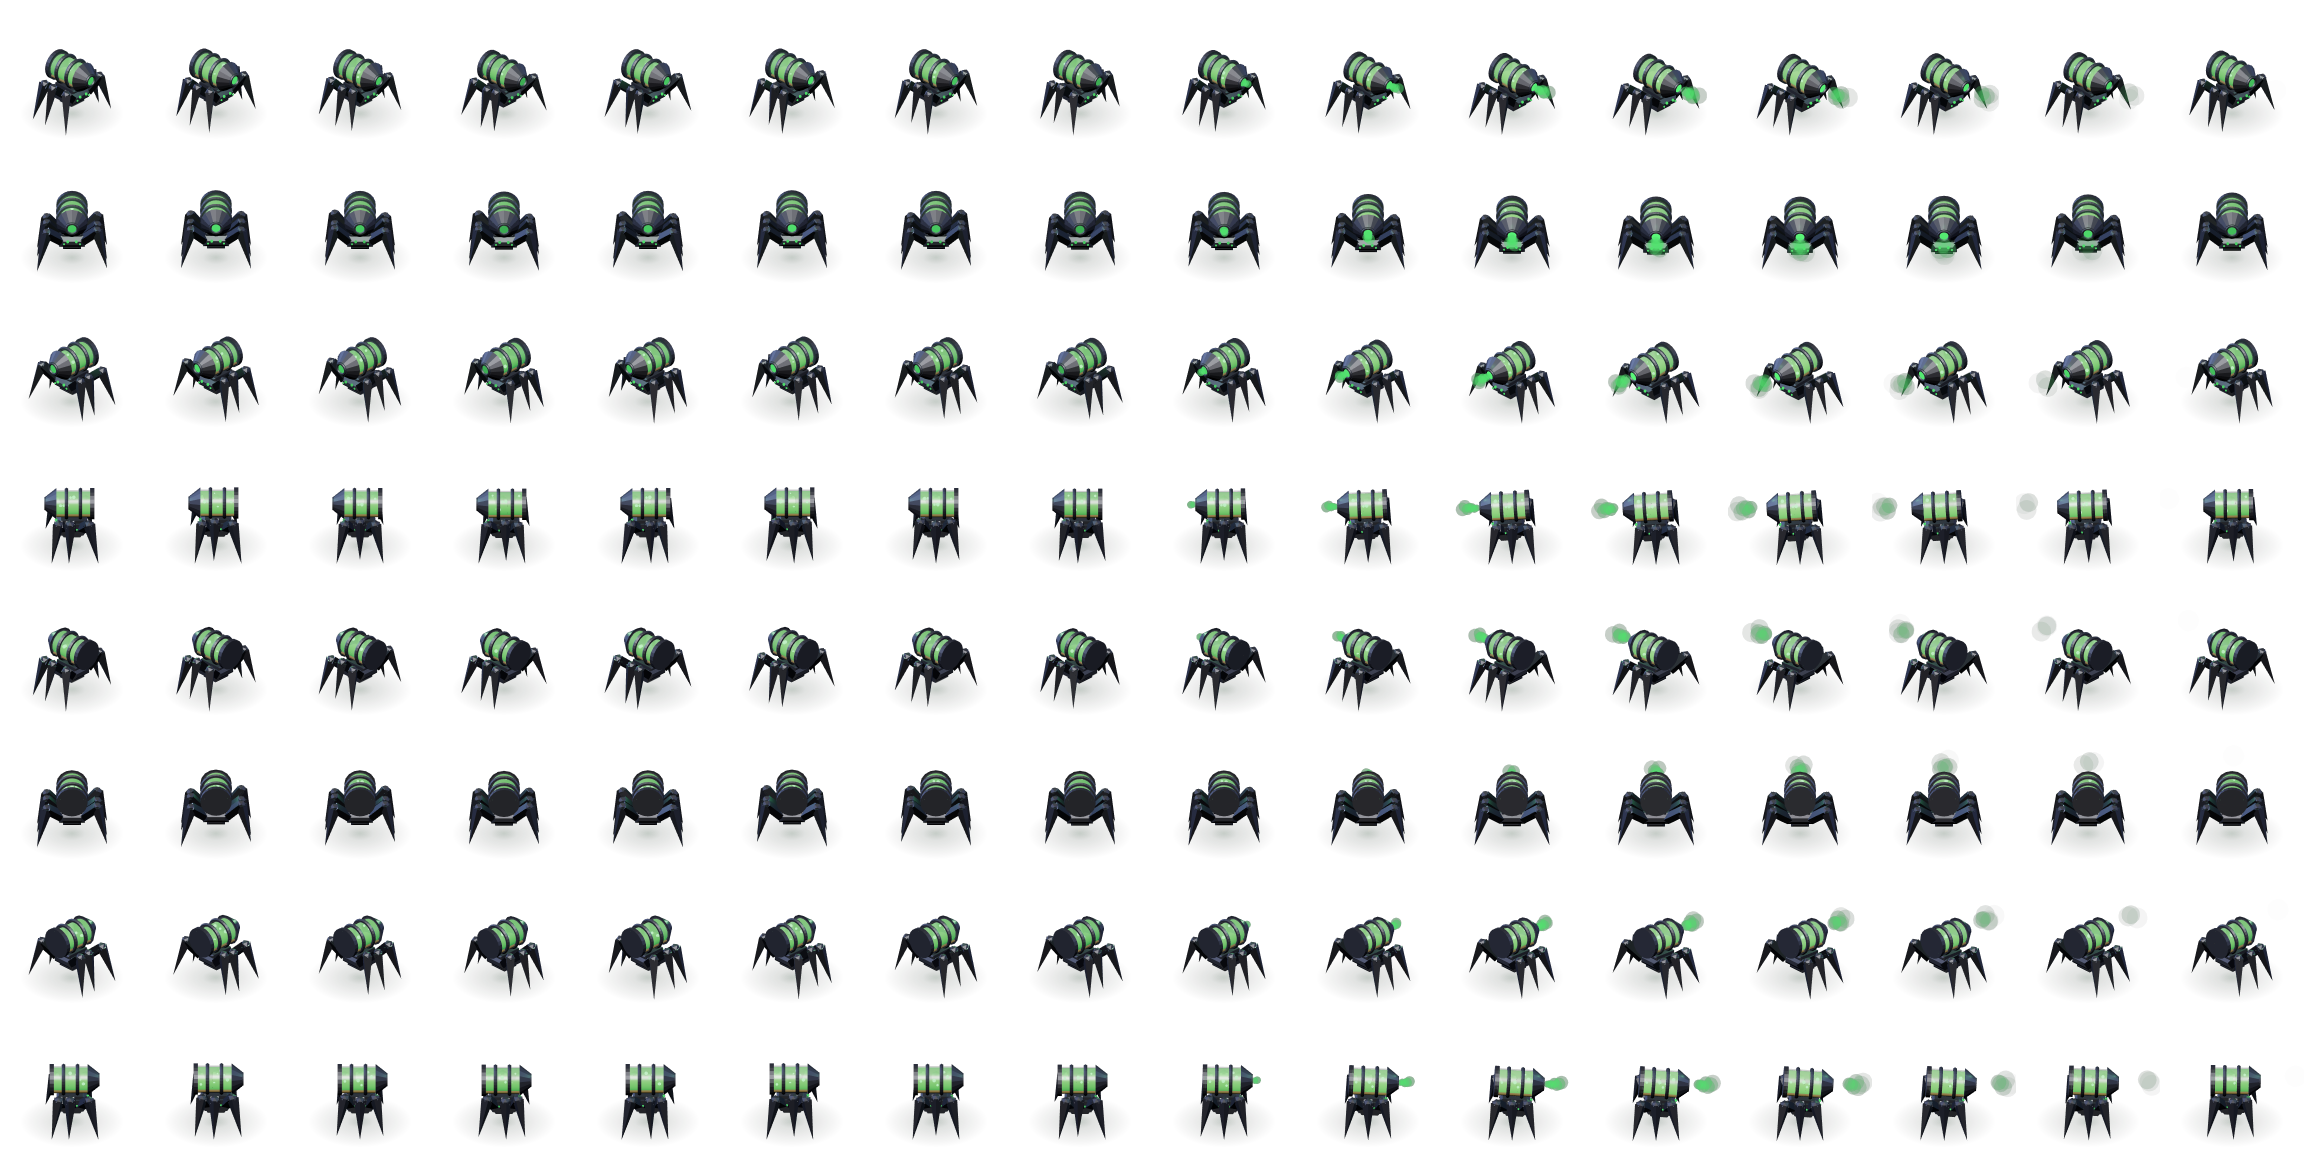
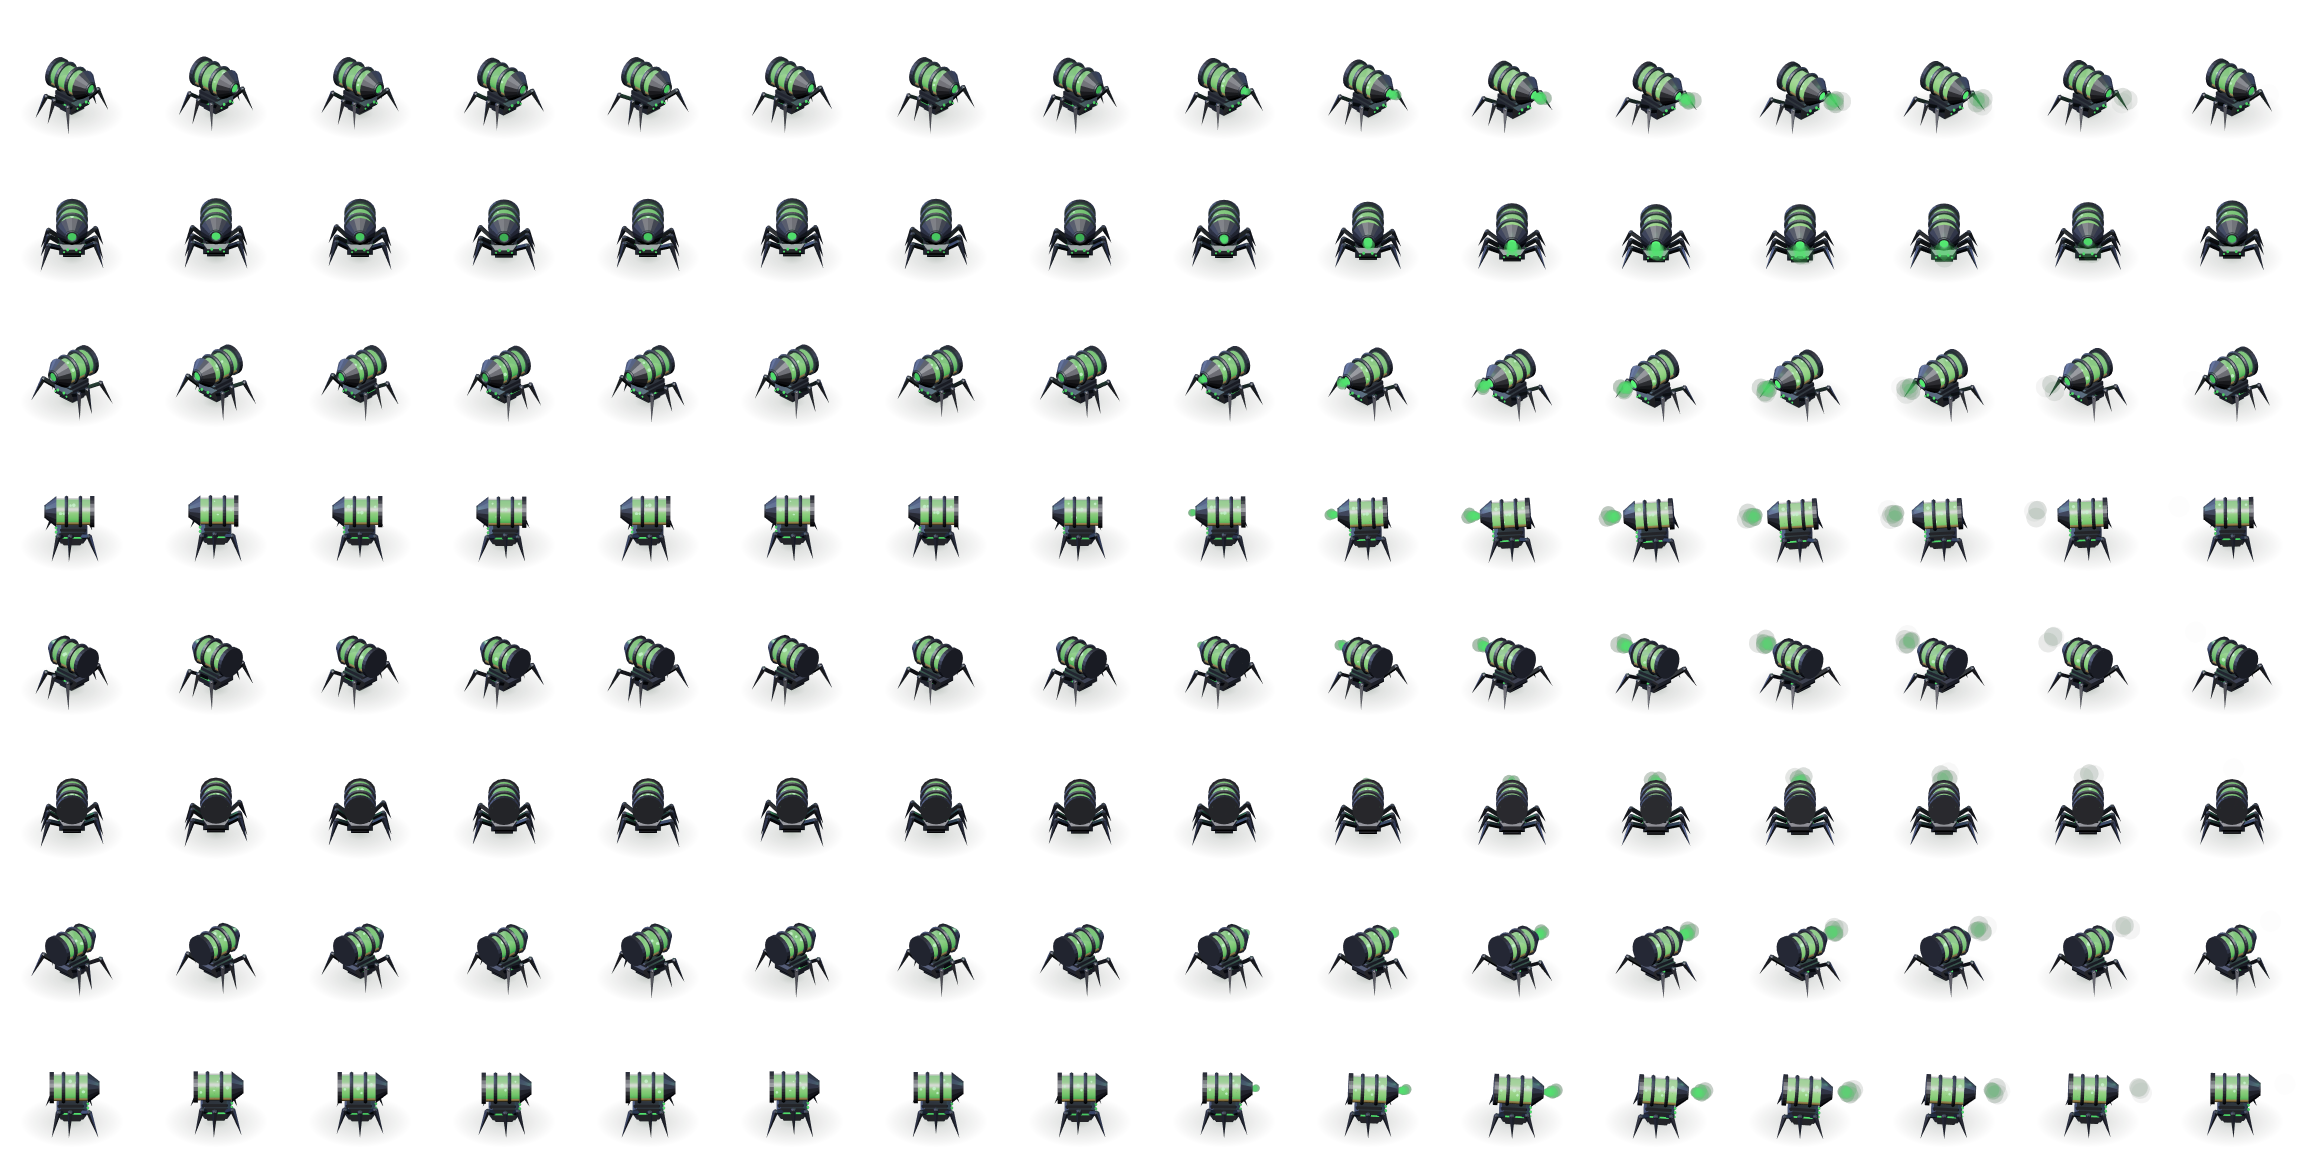
The Blight Spider rides low on fine legs now (No. 873, approved)
ASKED (reviewing it): "Smaller, thinner, finer legs, and just, I don't
know, make it lower to the ground, maybe", then "Yes push".

- img/evo/blightspider is baked from No. 873: the tank of toxin on a black
  chassis riding low on six fine spider legs; its toxin puff stops
  inside its cell.
- The first design (No. 870) stays in the design file, baked by bake.js as
  blightspider_old for comparison.
- Tests: evolution, landing page, boot, moves, INFO, index, specimen.

Build 2026-10-28f.

Claude-Session: https://claude.ai/code/session_0115DZYYhipQqSk6LHvQcEfz

diff --git a/game.html b/game.html
@@ -1573,12 +1573,12 @@ function _showError(msg) {
 // Script files that failed to download. A missing file raises no error of its
 // own — only the "Can't find variable" from whatever needed it — so the load
 // failure is caught here, on its way down (capture phase).
-// THE BUILD. Every script URL below carries ?v=2026-10-28e, so a new deploy
+// THE BUILD. Every script URL below carries ?v=2026-10-28f, so a new deploy
 // fetches a matching set: REPORTED, an iPad ran the new js/indexart.js against
 // an old cached js/config.js ("Attempted to assign to readonly property").
 // Change this, the ?v= on every script tag and BUILD_VERSION in js/config.js
 // together (tests/boot.js checks they agree).
-window.__PAGE_BUILD = "2026-10-28e";
+window.__PAGE_BUILD = "2026-10-28f";
 window.__bootFailed = [];
 window.addEventListener("error", function (e) {
     var t = e && e.target;
@@ -1614,71 +1614,71 @@ if (!CanvasRenderingContext2D.prototype.roundRect) {
 </script>
 
 <!-- Game scripts — load order matters (globals first, logic last) -->
-<script src="js/config.js?v=2026-10-28e"></script>
-<script src="js/icons.js?v=2026-10-28e"></script>
-<script src="js/uikit.js?v=2026-10-28e"></script>
-<script src="js/traits.js?v=2026-10-28e"></script>
-<script src="js/elements.js?v=2026-10-28e"></script>
-<script src="js/combat.js?v=2026-10-28e"></script>
-<script src="js/species.js?v=2026-10-28e"></script>
-<script src="js/levels.js?v=2026-10-28e"></script>
-<script src="js/status.js?v=2026-10-28e"></script>
-<script src="js/helpers.js?v=2026-10-28e"></script>
-<script src="js/predator.js?v=2026-10-28e"></script>
-<script src="js/abilities.js?v=2026-10-28e"></script>
-<script src="js/commands.js?v=2026-10-28e"></script>
-<script src="js/npc.js?v=2026-10-28e"></script>
-<script src="js/draw.js?v=2026-10-28e"></script>
-<script src="js/beetle3d.js?v=2026-10-28e"></script>
-<script src="js/bugs3d.js?v=2026-10-28e"></script>
-<script src="js/settings.js?v=2026-10-28e"></script>
-<script src="js/alarm.js?v=2026-10-28e"></script>
-<script src="js/drops.js?v=2026-10-28e"></script>
-<script src="js/clone.js?v=2026-10-28e"></script>
-<script src="js/bonds.js?v=2026-10-28e"></script>
-<script src="js/evolution.js?v=2026-10-28e"></script>
-<script src="js/hdsprites.js?v=2026-10-28e"></script>
-<script src="js/firebombs.js?v=2026-10-28e"></script>
-<script src="js/moves.js?v=2026-10-28e"></script>
-<script src="js/hudgems.js?v=2026-10-28e"></script>
-<script src="js/commandcenter.js?v=2026-10-28e"></script>
-<script src="js/unitinfo.js?v=2026-10-28e"></script>
-<script src="js/infodex.js?v=2026-10-28e"></script>
-<script src="js/classes.js?v=2026-10-28e"></script>
-<script src="js/playergear.js?v=2026-10-28e"></script>
-<script src="js/inventory.js?v=2026-10-28e"></script>
-<script src="js/weapons.js?v=2026-10-28e"></script>
-<script src="js/mutator.js?v=2026-10-28e"></script>
-<script src="js/specimen.js?v=2026-10-28e"></script>
-<script src="js/serum.js?v=2026-10-28e"></script>
-<script src="js/technomancer.js?v=2026-10-28e"></script>
-<script src="js/stations.js?v=2026-10-28e"></script>
-<script src="js/facilityportals.js?v=2026-10-28e"></script>
-<script src="js/tutorial.js?v=2026-10-28e"></script>
-<script src="js/facilitymap.js?v=2026-10-28e"></script>
-<script src="js/facilitygrow.js?v=2026-10-28e"></script>
-<script src="js/facility.js?v=2026-10-28e"></script>
-<script src="js/attract.js?v=2026-10-28e"></script>
-<script src="js/facilitysave.js?v=2026-10-28e"></script>
-<script src="js/facilityplay.js?v=2026-10-28e"></script>
-<script src="js/facilitydecor.js?v=2026-10-28e"></script>
-<script src="js/propatlas.js?v=2026-10-28e"></script>
-<script src="js/propsprites.js?v=2026-10-28e"></script>
-<script src="js/facilitystyle.js?v=2026-10-28e"></script>
-<script src="js/facilitystyleall.js?v=2026-10-28e"></script>
-<script src="js/facilitynet.js?v=2026-10-28e"></script>
-<script src="js/facilityspawn.js?v=2026-10-28e"></script>
-<script src="js/followerspots.js?v=2026-10-28e"></script>
-<script src="js/party.js?v=2026-10-28e"></script>
-<script src="js/squadfly.js?v=2026-10-28e"></script>
-<script src="js/facilitytutorial.js?v=2026-10-28e"></script>
-<script src="js/gunfire.js?v=2026-10-28e"></script>
-<script src="js/targeting.js?v=2026-10-28e"></script>
-<script src="js/toolbox.js?v=2026-10-28e"></script>
-<script src="js/mixtool.js?v=2026-10-28e"></script>
-<script src="js/radialmenu.js?v=2026-10-28e"></script>
-<script src="js/input.js?v=2026-10-28e"></script>
-<script src="js/game.js?v=2026-10-28e"></script>
+<script src="js/config.js?v=2026-10-28f"></script>
+<script src="js/icons.js?v=2026-10-28f"></script>
+<script src="js/uikit.js?v=2026-10-28f"></script>
+<script src="js/traits.js?v=2026-10-28f"></script>
+<script src="js/elements.js?v=2026-10-28f"></script>
+<script src="js/combat.js?v=2026-10-28f"></script>
+<script src="js/species.js?v=2026-10-28f"></script>
+<script src="js/levels.js?v=2026-10-28f"></script>
+<script src="js/status.js?v=2026-10-28f"></script>
+<script src="js/helpers.js?v=2026-10-28f"></script>
+<script src="js/predator.js?v=2026-10-28f"></script>
+<script src="js/abilities.js?v=2026-10-28f"></script>
+<script src="js/commands.js?v=2026-10-28f"></script>
+<script src="js/npc.js?v=2026-10-28f"></script>
+<script src="js/draw.js?v=2026-10-28f"></script>
+<script src="js/beetle3d.js?v=2026-10-28f"></script>
+<script src="js/bugs3d.js?v=2026-10-28f"></script>
+<script src="js/settings.js?v=2026-10-28f"></script>
+<script src="js/alarm.js?v=2026-10-28f"></script>
+<script src="js/drops.js?v=2026-10-28f"></script>
+<script src="js/clone.js?v=2026-10-28f"></script>
+<script src="js/bonds.js?v=2026-10-28f"></script>
+<script src="js/evolution.js?v=2026-10-28f"></script>
+<script src="js/hdsprites.js?v=2026-10-28f"></script>
+<script src="js/firebombs.js?v=2026-10-28f"></script>
+<script src="js/moves.js?v=2026-10-28f"></script>
+<script src="js/hudgems.js?v=2026-10-28f"></script>
+<script src="js/commandcenter.js?v=2026-10-28f"></script>
+<script src="js/unitinfo.js?v=2026-10-28f"></script>
+<script src="js/infodex.js?v=2026-10-28f"></script>
+<script src="js/classes.js?v=2026-10-28f"></script>
+<script src="js/playergear.js?v=2026-10-28f"></script>
+<script src="js/inventory.js?v=2026-10-28f"></script>
+<script src="js/weapons.js?v=2026-10-28f"></script>
+<script src="js/mutator.js?v=2026-10-28f"></script>
+<script src="js/specimen.js?v=2026-10-28f"></script>
+<script src="js/serum.js?v=2026-10-28f"></script>
+<script src="js/technomancer.js?v=2026-10-28f"></script>
+<script src="js/stations.js?v=2026-10-28f"></script>
+<script src="js/facilityportals.js?v=2026-10-28f"></script>
+<script src="js/tutorial.js?v=2026-10-28f"></script>
+<script src="js/facilitymap.js?v=2026-10-28f"></script>
+<script src="js/facilitygrow.js?v=2026-10-28f"></script>
+<script src="js/facility.js?v=2026-10-28f"></script>
+<script src="js/attract.js?v=2026-10-28f"></script>
+<script src="js/facilitysave.js?v=2026-10-28f"></script>
+<script src="js/facilityplay.js?v=2026-10-28f"></script>
+<script src="js/facilitydecor.js?v=2026-10-28f"></script>
+<script src="js/propatlas.js?v=2026-10-28f"></script>
+<script src="js/propsprites.js?v=2026-10-28f"></script>
+<script src="js/facilitystyle.js?v=2026-10-28f"></script>
+<script src="js/facilitystyleall.js?v=2026-10-28f"></script>
+<script src="js/facilitynet.js?v=2026-10-28f"></script>
+<script src="js/facilityspawn.js?v=2026-10-28f"></script>
+<script src="js/followerspots.js?v=2026-10-28f"></script>
+<script src="js/party.js?v=2026-10-28f"></script>
+<script src="js/squadfly.js?v=2026-10-28f"></script>
+<script src="js/facilitytutorial.js?v=2026-10-28f"></script>
+<script src="js/gunfire.js?v=2026-10-28f"></script>
+<script src="js/targeting.js?v=2026-10-28f"></script>
+<script src="js/toolbox.js?v=2026-10-28f"></script>
+<script src="js/mixtool.js?v=2026-10-28f"></script>
+<script src="js/radialmenu.js?v=2026-10-28f"></script>
+<script src="js/input.js?v=2026-10-28f"></script>
+<script src="js/game.js?v=2026-10-28f"></script>
 <script>
 // ── BOOT CHECK ────────────────────────────────────────────
 // Every file above must have arrived and run before init.js starts the game.
@@ -1733,7 +1733,7 @@ if (!CanvasRenderingContext2D.prototype.roundRect) {
     document.body.appendChild(d);
 })();
 </script>
-<script src="js/init.js?v=2026-10-28e"></script>
+<script src="js/init.js?v=2026-10-28f"></script>
 
 </body>
 </html>

diff --git a/js/evolution.js b/js/evolution.js
@@ -199,10 +199,11 @@ const EVOLUTIONS = {
     // red light and a cone drill for a nose glowing red in its groove, on a bear's thick armoured legs with clawed paws. The drill turns, so the sheet carries its own light.
     thermite:{ id: "thermite", name: "THERMITE BURROWER", element: "fire", role: "camper", sheet: "img/evo/thermite.png",
               cell: 144, anchor: [72, 114.2], core: [72, 74.8], noGlow: true, color: "#ff5a1f" },
-    // The TOXIC TECHNICIAN, design No. 870 (the user's card, "BLIGHT SPIDER · TOXIC DEPLOY"): a glass tank of bubbling toxin with black bands and a black front cap
-    // with a lens, on a faceted black six-legged chassis. The toxin bubbles and the legs trot, so the sheet carries its own light.
+    // The TOXIC TECHNICIAN, design No. 873 (the user's card, "BLIGHT SPIDER · TOXIC DEPLOY", then the review: "smaller, thinner, finer legs, and ... lower to the
+    // ground"): a glass tank of bubbling toxin with black bands and a black front cap with a lens, on a black chassis riding low on six fine spider legs. The toxin
+    // bubbles and the legs trot, so the sheet carries its own light.
     blightspider:{ id: "blightspider", name: "BLIGHT SPIDER", element: "toxic", role: "camper", sheet: "img/evo/blightspider.png",
-              cell: 144, anchor: [72, 114.2], core: [72, 71.6], noGlow: true, color: "#66ff66" },
+              cell: 144, anchor: [72, 114.2], core: [72, 79.6], noGlow: true, color: "#66ff66" },
     // The ELECTRIC TECHNICIAN, design No. 871 (the user's "ELECTRIC TECHNICIAN · FINAL CONCEPT" sheet, which has no name): a horseshoe crab's domed black shell with
     // a yellow underglow, square wings and two launcher prongs, over a six-legged shuttle; its action frames lift the shell off. It glows, so the sheet carries its own light.
     hovershell:{ id: "hovershell", name: "HOVER SHELL", element: "electric", role: "camper", sheet: "img/evo/hovershell.png",

diff --git a/design/evolutions/bake.js b/design/evolutions/bake.js
@@ -15,7 +15,8 @@ const f2src = fs.readFileSync(path.join(__dirname, 'forms2.js'), 'utf8'), f3src 
 const JOBS = [
   // Nos. 870-871 (forms33.js), the last two technicians from the user's sheets: the BLIGHT SPIDER, toxic (it trots, its toxin bubbling; its action puffs toxin from the lens), and
   // the HOVER SHELL, electric (it hovers, shut; its action is the sheet's separation: the shell lifts, the shuttle's legs unfold, then it shuts).
-  { id: 'blightspider', form: 870, color: '#33dd55', idleAct: 0, action: [0, 1.0], pulse: true, glowNormal: true },
+  { id: 'blightspider', form: 873, color: '#33dd55', idleAct: 0, action: [0, 1.0], pulse: true, glowNormal: true },   // (No. 873, approved on the user's review: fine legs, lower to the ground)
+  { id: 'blightspider_old', form: 870, color: '#33dd55', idleAct: 0, action: [0, 1.0], pulse: true, glowNormal: true },   // (the first Blight Spider, before the review)
   // No. 873, the Blight Spider on fine legs, lower to the ground (the user's ask on 870): a candidate until approved.
   { id: 'blightspider_low', form: 873, color: '#33dd55', idleAct: 0, action: [0, 1.0], pulse: true, glowNormal: true },
   { id: 'hovershell', form: 871, color: '#ffe033', idleAct: 0, action: [0, 1.0], pulse: true, glowNormal: true },

diff --git a/js/config.js b/js/config.js
@@ -6,7 +6,7 @@
 
 // The build this file belongs to — the same as window.__PAGE_BUILD and the
 // ?v= on every script tag in game.html (the boot check compares them).
-const BUILD_VERSION = "2026-10-28e";
+const BUILD_VERSION = "2026-10-28f";
 
 // ── GLOBAL ERROR DISPLAY ──────────────────────────────────
 // Lives in game.html (_showError), before any file loads. This file used to
